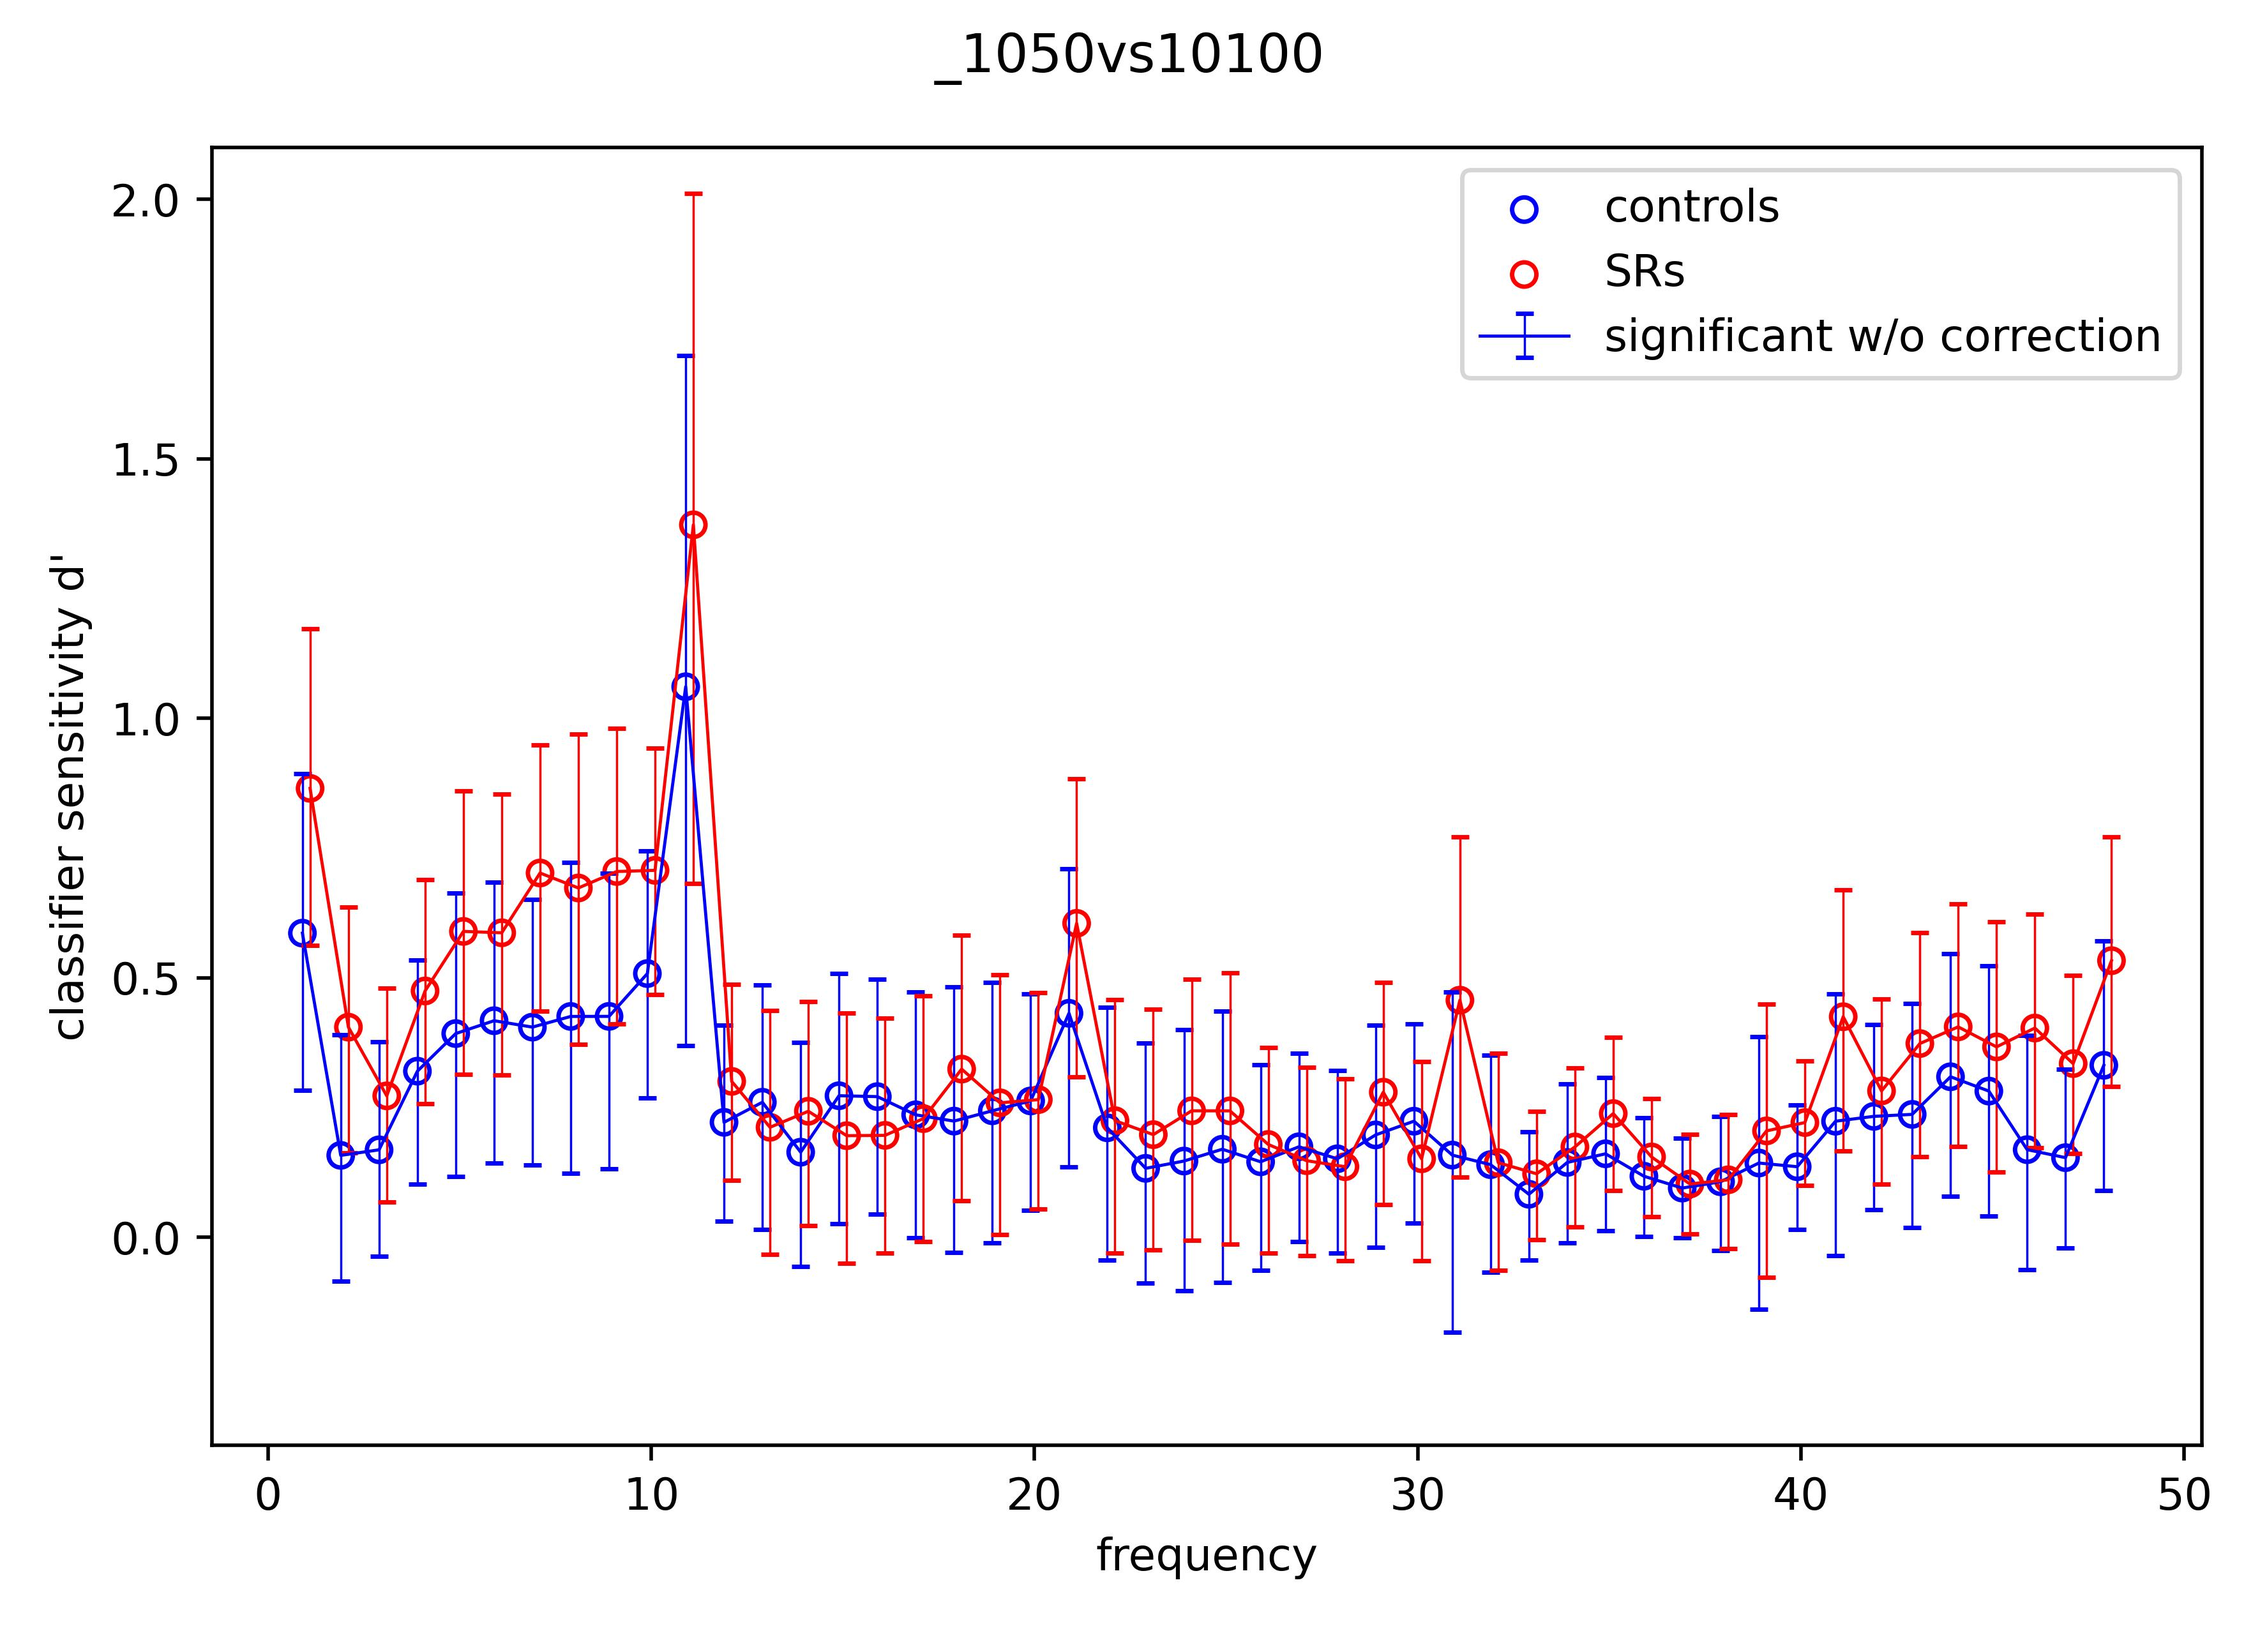
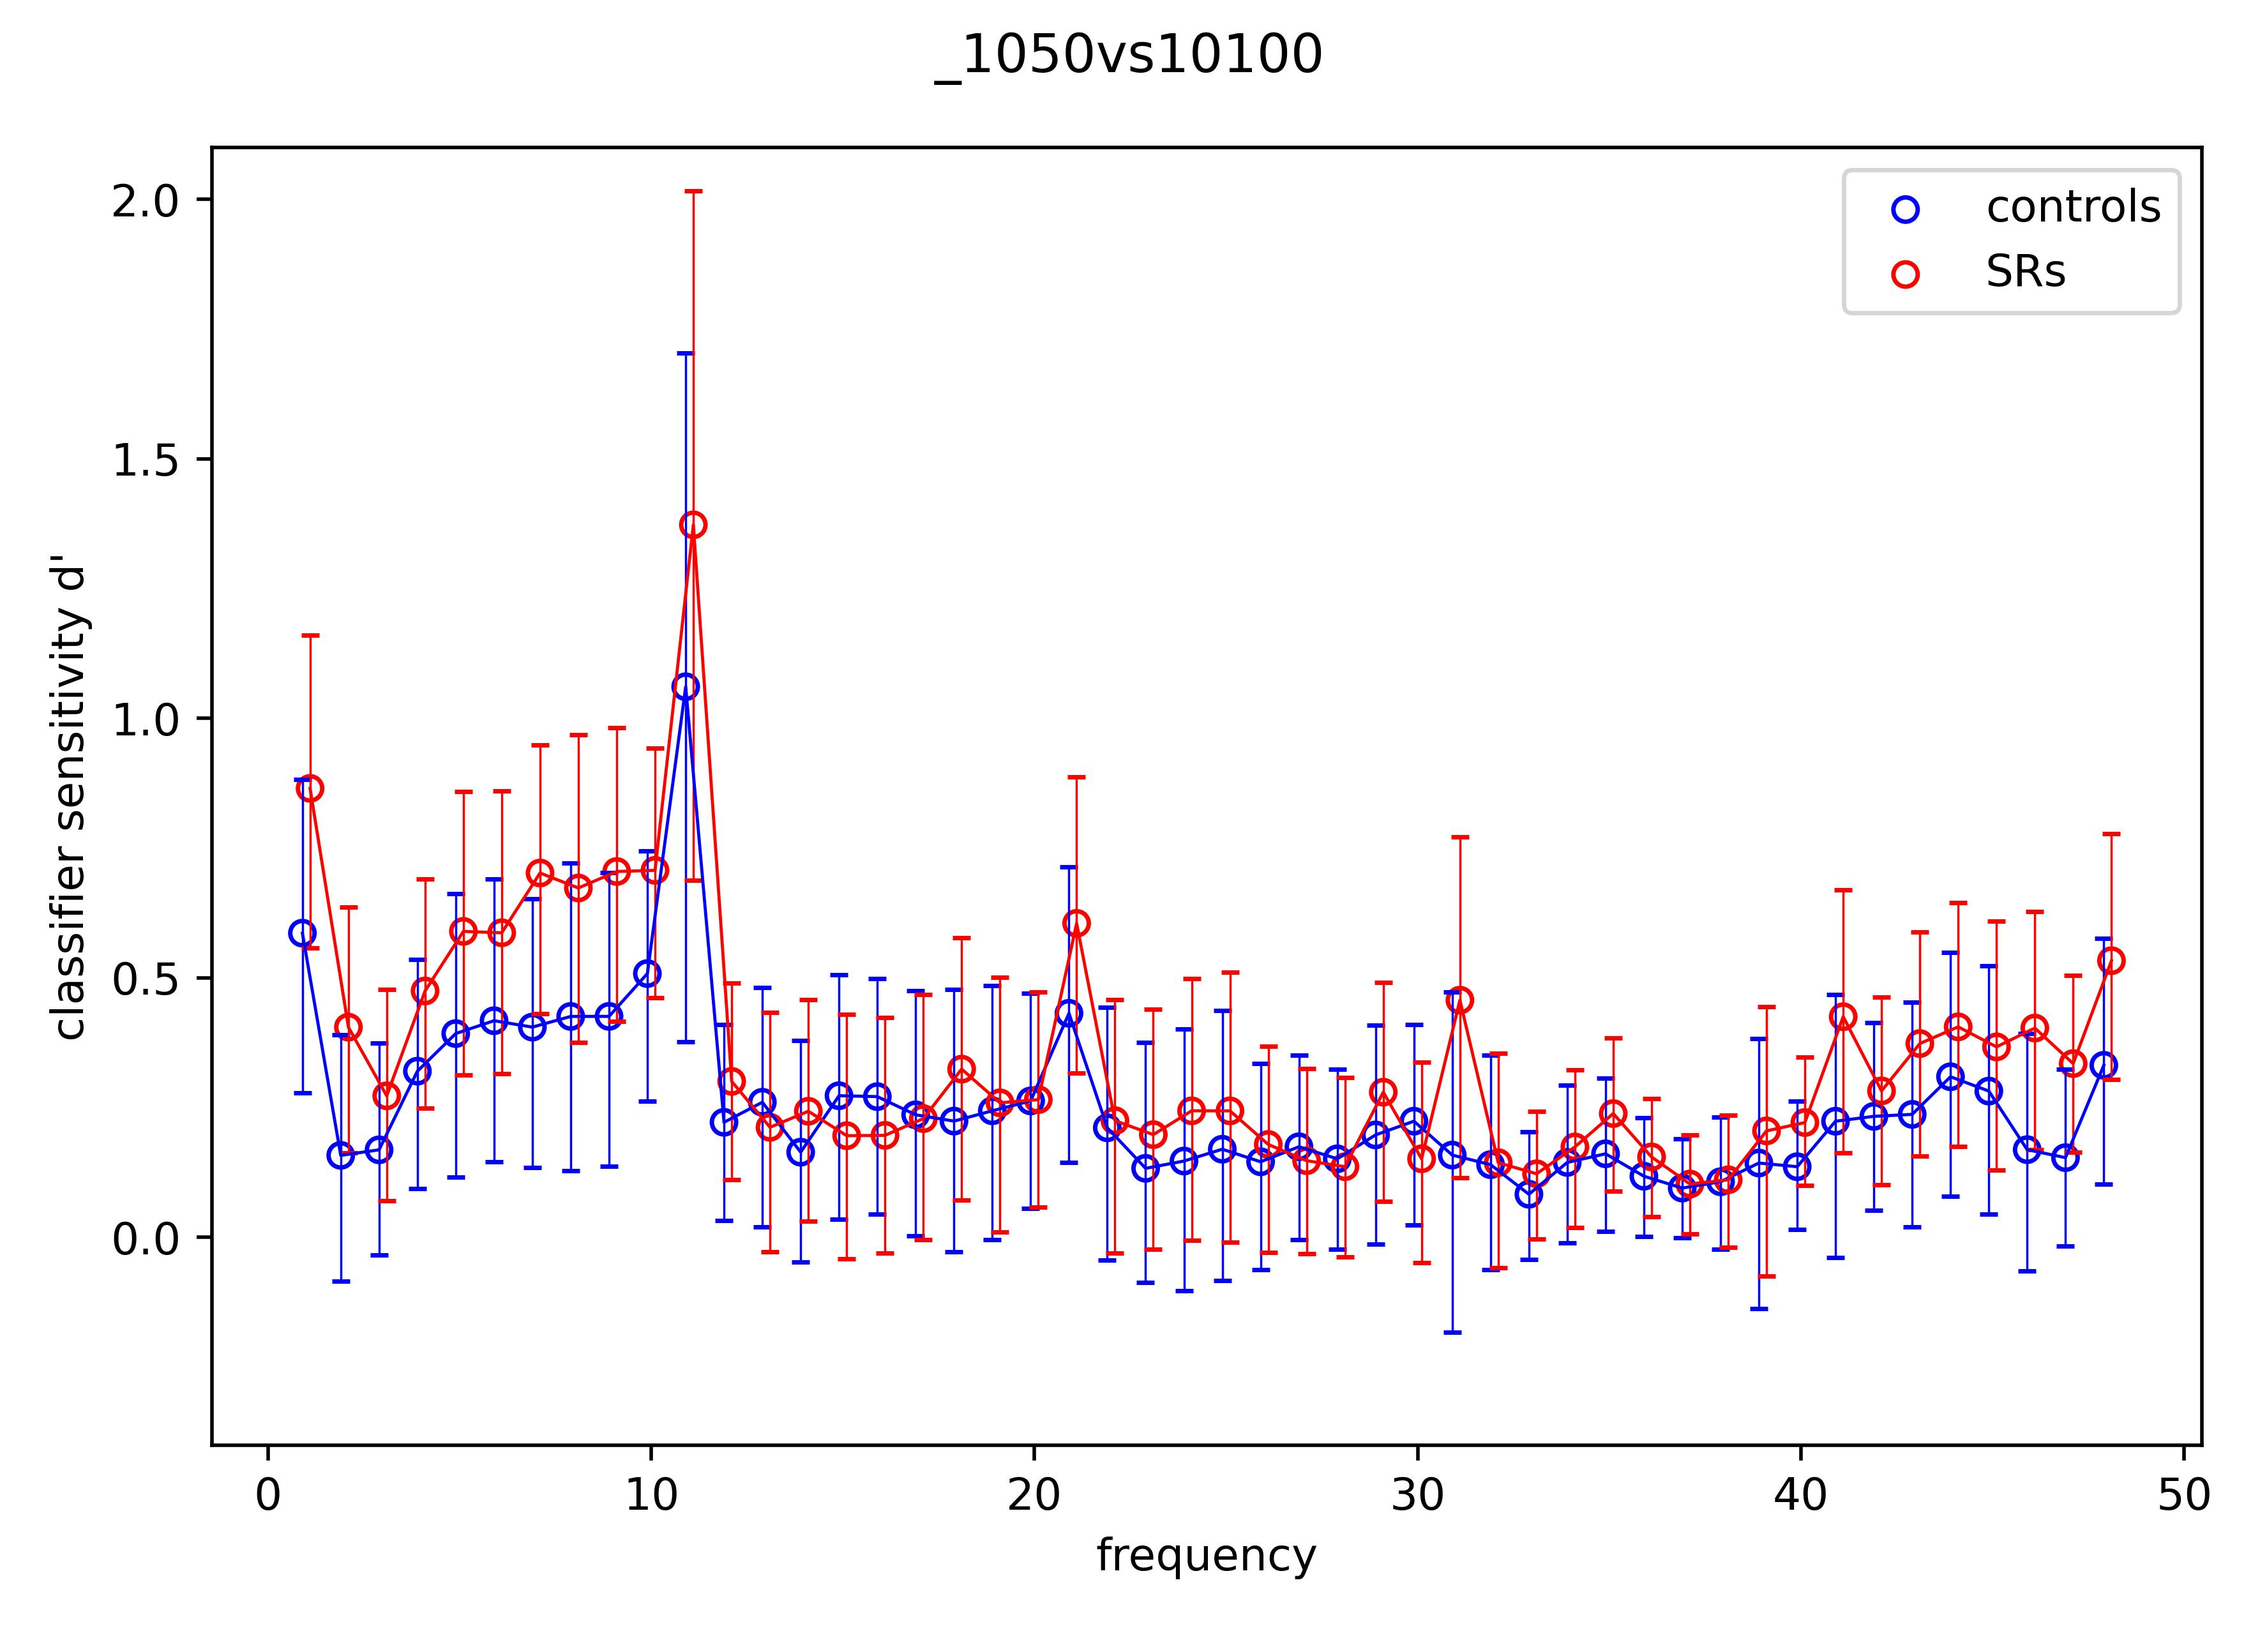
experiment 3 update .2

diff --git a/analysis_expt3.py b/analysis_expt3.py
@@ -113,7 +113,10 @@ for i in range(len(conditions)):
                  rotation=0, horizontalalignment='center', verticalalignment='center', bbox=bbox_props)
 
     plt.tight_layout()
-    plt.legend(['controls', 'SRs', 'significant w/o correction'])
+    if i == 0:
+        plt.legend(['controls', 'SRs', 'significant w/o correction'])
+    else:
+        plt.legend(['controls', 'SRs'])
     plt.xlabel('frequency')
     plt.ylabel("classifier sensitivity d'")
 
